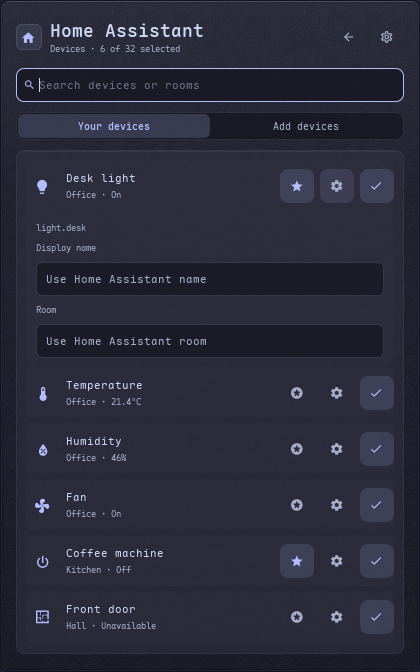
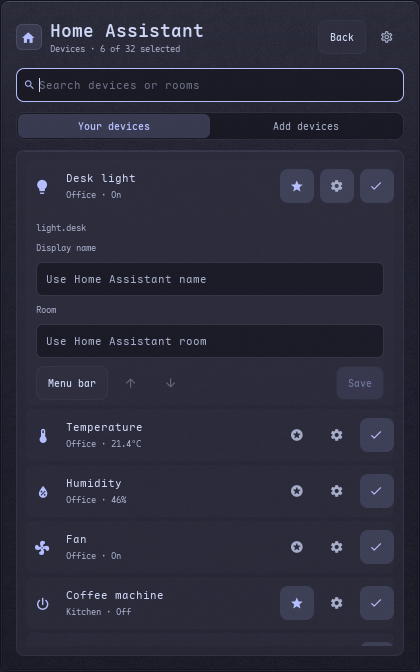
Clarify Home Assistant navigation and preserve unavailable controls

diff --git a/projects/shell/HomeAssistantPanel.qml b/projects/shell/HomeAssistantPanel.qml
@@ -220,11 +220,10 @@ Column {
     detailColor: panel.store.connected || panel.setupShown ? panel.theme.subtext : panel.theme.yellow
     Row {
       spacing: panel.theme.spaceTight
-      GlyphAction {
+      Action {
         objectName: "homeNavigation"
         visible: panel.store.configured
-        glyph: panel.page === "home" ? "" : ""
-        text: panel.page === "home" ? "Choose devices" : "Back to home"
+        text: panel.page === "home" ? "Devices" : "Back"
         onClicked: panel.page = panel.page === "home" ? "devices" : "home"
       }
       GlyphAction {
@@ -588,7 +587,7 @@ Column {
                   id: homeRow
                   required property var payload
                   readonly property var pending: panel.store.pending[payload.entity_id]
-                  readonly property bool actionable: panel.store.connected && payload.available && !pending && !panel.store.settingsPending
+                  readonly property bool actionable: panel.store.connected && payload.available && payload.controllable && !pending && !panel.store.settingsPending
                   readonly property bool adjustable: !!payload.dimmable || !!payload.temperature || !!payload.speed_control
                   readonly property bool unfolded: adjustable && panel.expanded === payload.entity_id
                   readonly property bool isOn: pending && pending.state !== undefined ? pending.state === "on" : payload.state === "on"

diff --git a/tests/tst_homeassistant.qml b/tests/tst_homeassistant.qml
@@ -105,6 +105,21 @@ TestCase {
     compare(reading.payload.state_label, "22.1")
     compare(fixture.writes.length, 0)
   }
+  function test_unavailable_device_keeps_its_control_delegate() {
+    var control = child("control:light.desk")
+    for (var state of ["unavailable", "unknown", "off"]) {
+      var next = JSON.parse(JSON.stringify(fixture.entities))
+      next[0].state = state
+      next[0].available = state === "off"
+      next[0].controllable = state === "off"
+      fixture.entities = next
+      wait(20)
+      compare(child("control:light.desk"), control)
+      verify(findChild(panel, "reading:light.desk") === null)
+      compare(child("power:light.desk").enabled, state === "off")
+    }
+    compare(fixture.writes.length, 0)
+  }
   function test_pointer_opens_controls_without_switching_power() {
     var control = child("control:light.desk")
     mouseClick(control, theme.controlHeight + theme.spaceLarge, theme.rowHeight / 2)

diff --git a/projects/integrations/tests/home_assistant.py b/projects/integrations/tests/home_assistant.py
@@ -147,6 +147,30 @@ class HomeAssistant(unittest.IsolatedAsyncioTestCase):
         preferences={'action':'preferences','entities':[{'entity_id':'light.desk','name':TOKEN+'\nReading','room':'Study','favorite':True}],'summary':'light.desk'}
         self.assertTrue((await self.rpc(preferences))['ok']);disk=json.loads(self.config_path.read_text());self.assertEqual(disk['entities'][0]['name'],'[redacted]Reading');self.assertEqual(disk['entities'][0]['room'],'Study')
 
+    async def test_live_presenter_classes_and_unavailable_controls(self):
+        classes = ['temperature', 'humidity', 'moisture', 'battery', 'power', 'energy',
+                   'voltage', 'current', 'door', 'window', 'opening', 'garage_door',
+                   'motion', 'occupancy', 'presence']
+        for index, device_class in enumerate(classes + ['unsupported_private_class']):
+            self.states.append({'entity_id':f'binary_sensor.fixture_{index}', 'state':'off',
+                                'attributes':{'device_class':device_class, 'private_attribute':TOKEN}})
+        await self.start()
+        self.assertTrue((await self.rpc({'action':'catalog', 'open':True}))['ok'])
+        await self.until(lambda:any('catalog' in m for m in self.messages))
+        catalog = next(m['catalog'] for m in reversed(self.messages) if 'catalog' in m)
+        by_id = {e['entity_id']:e for e in catalog}
+        for index, device_class in enumerate(classes):
+            self.assertEqual(by_id[f'binary_sensor.fixture_{index}']['device_class'], device_class)
+        self.assertEqual(by_id[f'binary_sensor.fixture_{len(classes)}']['device_class'], '')
+        for state in ['unavailable', 'unknown', 'on']:
+            self.states[0]['state'] = state
+            await self.event(self.states[0])
+            await self.until(lambda:self.latest()['entities'][0]['state'] == state)
+            entry = self.latest()['entities'][0]
+            self.assertEqual(entry['entity_id'], 'light.desk')
+            self.assertEqual(entry['controllable'], state == 'on')
+            self.assertEqual(entry['available'], state == 'on')
+
     async def test_service_result_waits_for_device_and_reconnects(self):
         await self.start();self.confirm=False
         await self.send({'action':'set','entity_id':'light.desk','desired':{'state':'on'},'request':1});await self.until(lambda:bool(self.calls))

diff --git a/projects/qml-core/src/home_assistant.rs b/projects/qml-core/src/home_assistant.rs
@@ -7,7 +7,12 @@ fn text<'a>(value: &'a Value, key: &str) -> &'a str {
     value.get(key).and_then(Value::as_str).unwrap_or("")
 }
 fn reading(item: &Value) -> bool {
-    !truthy(item.get("controllable"))
+    // Availability is transient. Keep supported device domains in their control
+    // rows even while the worker withdraws permission to act on them.
+    !matches!(
+        text(item, "entity_id").split('.').next(),
+        Some("light" | "fan" | "switch" | "input_boolean")
+    )
 }
 fn present(item: &Value) -> Value {
     let mut item = if item.is_object() {
@@ -269,6 +274,37 @@ mod tests {
                     .map(|v| text(v, "entity_id"))
                     .collect::<Vec<_>>()
             );
+        }
+    }
+
+    #[test]
+    fn control_categories_and_order_survive_unavailability() {
+        for domain in ["light", "fan", "switch", "input_boolean"] {
+            let mut entities = json!([
+                {"entity_id":format!("{domain}.a"),"room":"Office","controllable":true,"available":true,"state":"on"},
+                {"entity_id":format!("{domain}.b"),"room":"Office","controllable":true,"available":true,"state":"off"}
+            ]);
+            let preferences = entities.clone();
+            let before = project(
+                entities.as_array().unwrap(),
+                preferences.as_array().unwrap(),
+            );
+            for state in ["unavailable", "unknown", "off"] {
+                entities[0]["state"] = json!(state);
+                entities[0]["controllable"] = json!(state == "off");
+                entities[0]["available"] = json!(state == "off");
+                let after = project(
+                    entities.as_array().unwrap(),
+                    preferences.as_array().unwrap(),
+                );
+                assert_eq!(after["moves"], before["moves"]);
+                assert_eq!(after["groups"][0]["readings"], json!([]));
+                assert_eq!(
+                    after["groups"][0]["controls"][0]["entity_id"],
+                    format!("{domain}.a")
+                );
+                assert_eq!(after["groups"][0]["controls"].as_array().unwrap().len(), 2);
+            }
         }
     }
 

diff --git a/projects/integrations/src/home_assistant/live.rs b/projects/integrations/src/home_assistant/live.rs
@@ -76,7 +76,7 @@ impl Live {
         let features = number(&attrs["supported_features"], 0.) as u64;
         json!({"entity_id":id,"name":common::clean(&name,token,120),"state":display_state,"unit":common::clean(&attrs["unit_of_measurement"],token,24),
             "room":common::clean(&json!(room),token,120),"favorite":selected["favorite"].as_bool().unwrap_or(false),
-            "device_class":attrs["device_class"].as_str().filter(|s| matches!(*s,"temperature"|"humidity")).unwrap_or(""),
+            "device_class":attrs["device_class"].as_str().filter(|s| matches!(*s,"temperature"|"humidity"|"moisture"|"battery"|"power"|"energy"|"voltage"|"current"|"door"|"window"|"opening"|"garage_door"|"motion"|"occupancy"|"presence")).unwrap_or(""),
             "available":!matches!(state,"unknown"|"unavailable"),"controllable":allowed(id)&&matches!(state,"on"|"off"),
             "speed_control":id.starts_with("fan.")&&features&1!=0,"percentage":number(&attrs["percentage"],0.),"percentage_step":number(&attrs["percentage_step"],1.).clamp(1.,100.),
             "dimmable":id.starts_with("light.")&&["brightness","color_temp","hs","xy","rgb","rgbw","rgbww","white"].iter().any(|s| mode(s)),

diff --git a/projects/home-assistant/README.md b/projects/home-assistant/README.md
@@ -12,13 +12,15 @@ the password field clears after submission and when the panel closes.
 The home view leads with Favorites, then a card for each room. Every selected
 sensor has a named readout; temperature and humidity no longer disappear into
 room headings. Readouts can be favorites too. Favorite controls include their
-room, and changing device state never reorders the cards. Numeric sensor readings
+room, and changing device state never reorders the cards. Supported control domains
+keep their control rows while unavailable; permission to act still follows the
+worker's current availability and controllability flags. Numeric sensor readings
 round to one decimal place throughout the panel and menu bar, omitting a trailing
 `.0`. Unavailable readings stay visible and are labeled explicitly.
 
 ![Home view with fixture devices](preview-home.png)
 
-The header's **Choose devices** action opens the searchable **Your devices / Add
+The header's **Devices** action opens the searchable **Your devices / Add
 devices** picker. Select up to 32 devices and star favorites directly in the list.
 Each selected device's settings expand in place: edit its display name and room,
 then **Save** both together. Blank fields use Home Assistant's values. **Menu bar**
@@ -46,6 +48,10 @@ edits and catalog merge/search run in the shared Rust UI policy library. The sto
 updates the projection when source data changes; keyed nested Qt models retain
 actual delegates, selection, focus and process signals. At most 128 unanswered UI
 requests are retained, without tokens in that bookkeeping.
+
+The worker retains only the bounded device classes used by the presenter, so
+door/window, motion, battery and electrical readings keep their semantic labels
+and glyphs without exposing arbitrary attributes.
 
 The resident Rust `seele-home-assistant` worker uses Home Assistant's
 [WebSocket API](https://developers.home-assistant.io/docs/api/websocket/) for live
